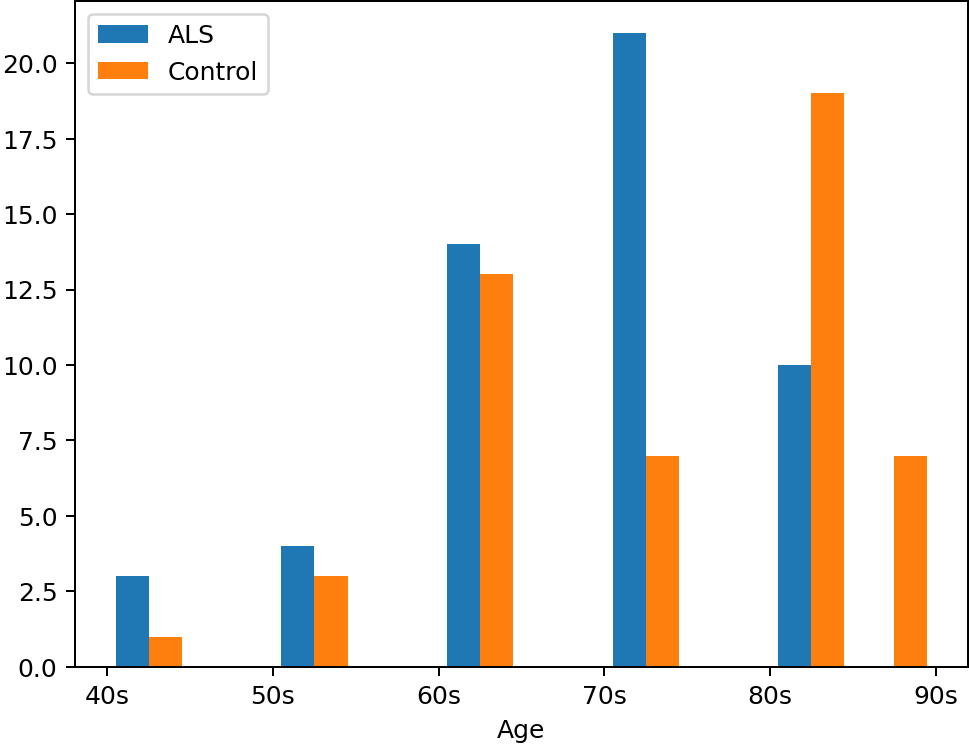
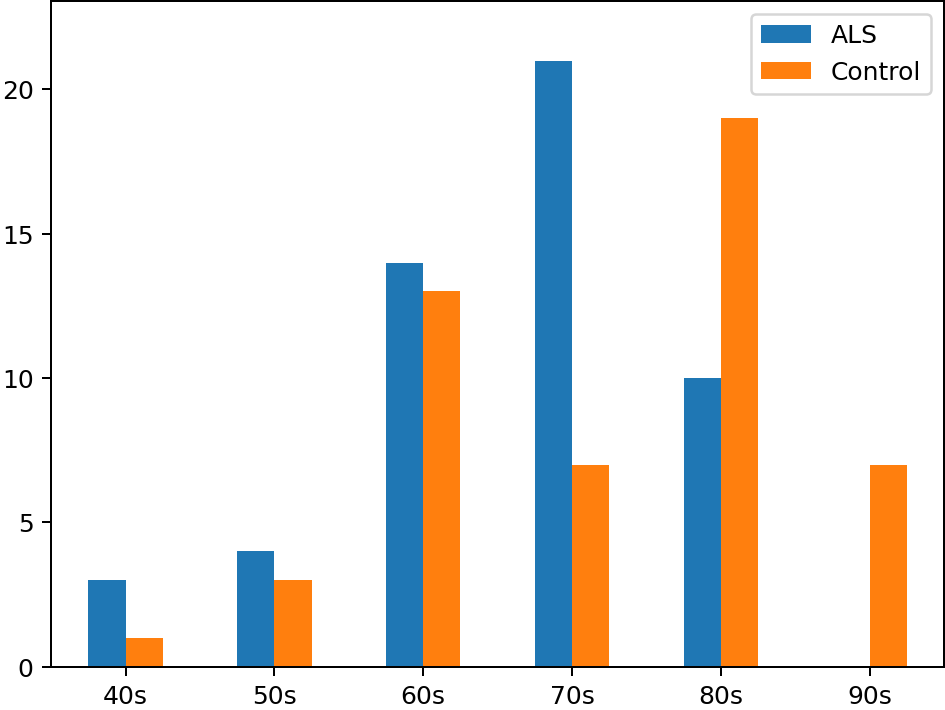
exploratory figures

diff --git a/code/sandbox_ra/20201130-FirstLook/a_exploratory.py b/code/sandbox_ra/20201130-FirstLook/a_exploratory.py
@@ -6,6 +6,7 @@ Exploratory analysis of the FGCZ dataset.
 RA, 2020-11-30
 """
 
+
 from collections import Counter
 
 import pandas as pd
@@ -14,6 +15,10 @@ from pathlib import Path
 from plox import Plox
 from collections import OrderedDict
 from tcga.utils import mkdir, from_iterable
+from twig import log
+
+DO_TSNE = True
+DO_HIST = True
 
 rs = np.random.RandomState(seed=0)
 
@@ -41,8 +46,8 @@ fgcz_meta = list(data_root.glob("*FGCZ/*_infos.tsv")).pop()
 fgcz_data = pd.read_csv(fgcz_data, sep='\t')
 fgcz_meta = pd.read_csv(fgcz_meta, sep='\t')
 
-print("Sample condition:", dict(Counter(fgcz_meta.Condition)))
-print("Sample source:", dict(Counter(fgcz_meta.Source)))
+log.info(F"Sample condition: {dict(Counter(fgcz_meta.Condition))}")
+log.info(F"Sample source: {dict(Counter(fgcz_meta.Source))}")
 
 assert fgcz_data["Feature ID"].is_unique
 
@@ -58,25 +63,42 @@ X = pd.DataFrame(
     data=TSNE(random_state=rs).fit_transform(df[df.index.isin(markers)].T),
 )
 
-# Round the age column
+# Binarize numerical columns
+fgcz_meta.RIN = pd.cut(fgcz_meta.RIN, [0, 2, 4, 6, 8], right=False)
+fgcz_meta.pmDelay = pd.cut(fgcz_meta.pmDelay, [0, 100, 200, 300, 400, 500, 600], right=False)
+fgcz_meta.LibConc_100_800bp = pd.cut(fgcz_meta.LibConc_100_800bp, [0, 50, 100, 150, 200, 250], right=False)
 fgcz_meta.Age = fgcz_meta.Age.apply(lambda x: F"{np.round(x, -1)}s")
+
 fgcz_meta = fgcz_meta.sort_values(by='Age')
 
-style = {'savefig.pad_inches': 0.01}
+if not DO_TSNE:
+    log.info("T-SNE skipped.")
+else:
+    # t-SNE plots
+    for col in ['Condition', 'Gender', 'Age', 'Source']:
+        log.info(F"T-SNE by {col}...")
+        with Plox() as px:
+            markerstyles = ['^', 'v', 'p', 's', 'o']
+            for ((key, df), m) in zip(X.groupby(fgcz_meta[col]), markerstyles):
+                px.a.plot(df.x, df.y, ls='none', label=key, marker=m)
+                px.a.legend()
+            px.a.axis('off')
+            px.f.savefig(out_dir / F"tsne_by_{col}.png")
 
-for col in ['Condition', 'Gender', 'Age', 'Source']:
-    with Plox(style) as px:
-        markerstyles = ['^', 'v', 'p', 's', 'o']
-        for ((key, df), m) in zip(X.groupby(fgcz_meta[col]), markerstyles):
-            px.a.plot(df.x, df.y, ls='none', label=key, marker=m)
+if not DO_HIST:
+    log.info("Histograms skipped.")
+else:
+    # Histograms
+    for col in ['RIN', 'Age', 'Gender', 'pmDelay', 'LibConc_100_800bp', 'Source']:
+        log.info(F"Histogram on {col}...")
+        with Plox() as px:
+            data = OrderedDict(sorted(fgcz_meta[col].groupby(fgcz_meta.Condition)))
+            df = pd.DataFrame(data={
+                label: s.value_counts()
+                for (label, s) in fgcz_meta[col].groupby(fgcz_meta.Condition)
+            })
+            df.plot.bar(ax=px.a, rot=0)
+            px.a.set_yticks([x for x in px.a.get_yticks() if (round(x) == x)])
+            px.a.set_ylim(0, max(px.a.get_ylim()) + 1)
             px.a.legend()
-        px.a.axis('off')
-        px.f.savefig(out_dir / F"tsne_by_{col}.png")
-
-for col in ['Gender', 'Age', 'pmDelay', 'LibConc_100_800bp', 'RIN', 'Source']:
-    with Plox(style) as px:
-        data = OrderedDict(sorted(fgcz_meta[col].groupby(fgcz_meta.Condition)))
-        px.a.hist(data.values(), label=list(data.keys()))
-        px.a.set_xlabel(col)
-        px.a.legend()
-        px.f.savefig(out_dir / F"hist_by_{col}.png")
+            px.f.savefig(out_dir / F"hist_by_{col}.png")

diff --git a/code/sandbox_ra/20201130-FirstLook/c_readme.py b/code/sandbox_ra/20201130-FirstLook/c_readme.py
@@ -1,0 +1,53 @@
+# RA, 2020-12-21
+
+from twig import log
+
+from datetime import datetime, timezone
+from contextlib import redirect_stdout
+from pathlib import Path
+
+from tcga.utils import relpath, First, unlist1
+
+from datasource import datapath
+
+time = datetime.now(tz=timezone.utc).strftime("%Z-%Y%m%d-%H%M%S")
+this = Path(__file__)
+find = First(datapath.glob).then(unlist1).then(relpath)
+
+preambulations = F"""
+Exploratory analysis on the ALS dataset 
+[[1]]({find("**/20201128-FGCZ")}).
+
+To compute the t-SNE embeddings,
+the gene counts are first normalized to sum=1 for each sample,
+then subset to the marker genes
+from [here](https://github.com/sta426hs2020/material/blob/8c57e3b/week13-07dec2020/workflow.Rmd#L152),
+see [a_exploratory.py](a_exploratory.py).
+
+This file was generated by [{this.name}]({this.name}) ({time}).
+"""
+
+with redirect_stdout((this.parent / "readme.md").open('w')):
+    print(preambulations)
+    print()
+
+    f = First((this.parent / "a_exploratory").glob).each(relpath).each(Path).then(sorted)
+
+    print("### Histograms by condition")
+    print()
+
+    for x in f("hist*.png"):
+        log.info(x)
+        print(F"#### {str(x.stem).split('_')[2]}")
+        print(F"![{x.stem}]({x})")
+        print()
+
+    print("### T-SNE embeddings")
+    print()
+
+    for x in f("tsne*.png"):
+        log.info(x)
+        print(F"#### {str(x.stem).split('_')[2]}")
+        print()
+        print(F"![{x.stem}]({x})")
+        print()

diff --git a/code/sandbox_ra/20201130-FirstLook/readme.md b/code/sandbox_ra/20201130-FirstLook/readme.md
@@ -1,0 +1,51 @@
+
+Exploratory analysis on the ALS dataset 
+[[1]](../../../data/20201128-FGCZ).
+
+To compute the t-SNE embeddings,
+the gene counts are first normalized to sum=1 for each sample,
+then subset to the marker genes
+from [here](https://github.com/sta426hs2020/material/blob/8c57e3b/week13-07dec2020/workflow.Rmd#L152),
+see [a_exploratory.py](a_exploratory.py).
+
+This file was generated by [c_readme.py](c_readme.py) (UTC-20201221-214404).
+
+
+### Histograms by condition
+
+#### Age
+![hist_by_Age](a_exploratory/hist_by_Age.png)
+
+#### Gender
+![hist_by_Gender](a_exploratory/hist_by_Gender.png)
+
+#### LibConc
+![hist_by_LibConc_100_800bp](a_exploratory/hist_by_LibConc_100_800bp.png)
+
+#### RIN
+![hist_by_RIN](a_exploratory/hist_by_RIN.png)
+
+#### Source
+![hist_by_Source](a_exploratory/hist_by_Source.png)
+
+#### pmDelay
+![hist_by_pmDelay](a_exploratory/hist_by_pmDelay.png)
+
+### T-SNE embeddings
+
+#### Age
+
+![tsne_by_Age](a_exploratory/tsne_by_Age.png)
+
+#### Condition
+
+![tsne_by_Condition](a_exploratory/tsne_by_Condition.png)
+
+#### Gender
+
+![tsne_by_Gender](a_exploratory/tsne_by_Gender.png)
+
+#### Source
+
+![tsne_by_Source](a_exploratory/tsne_by_Source.png)
+
